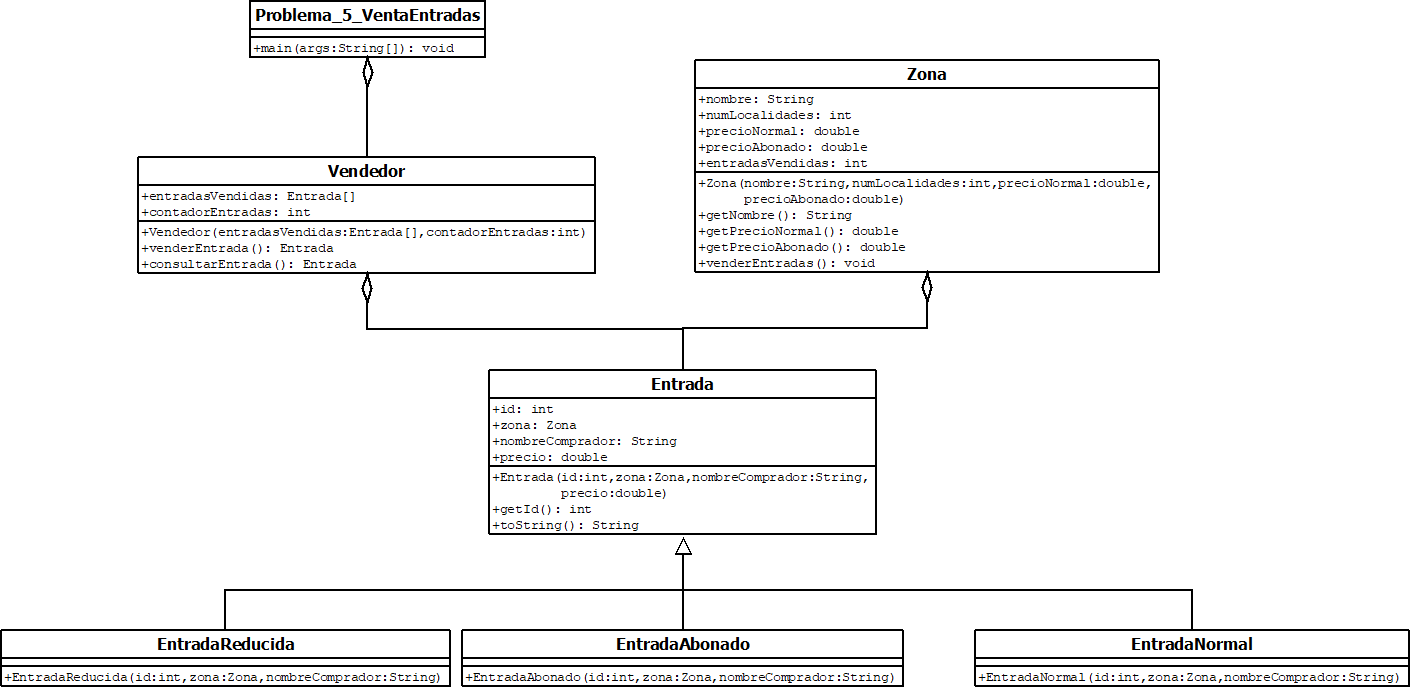
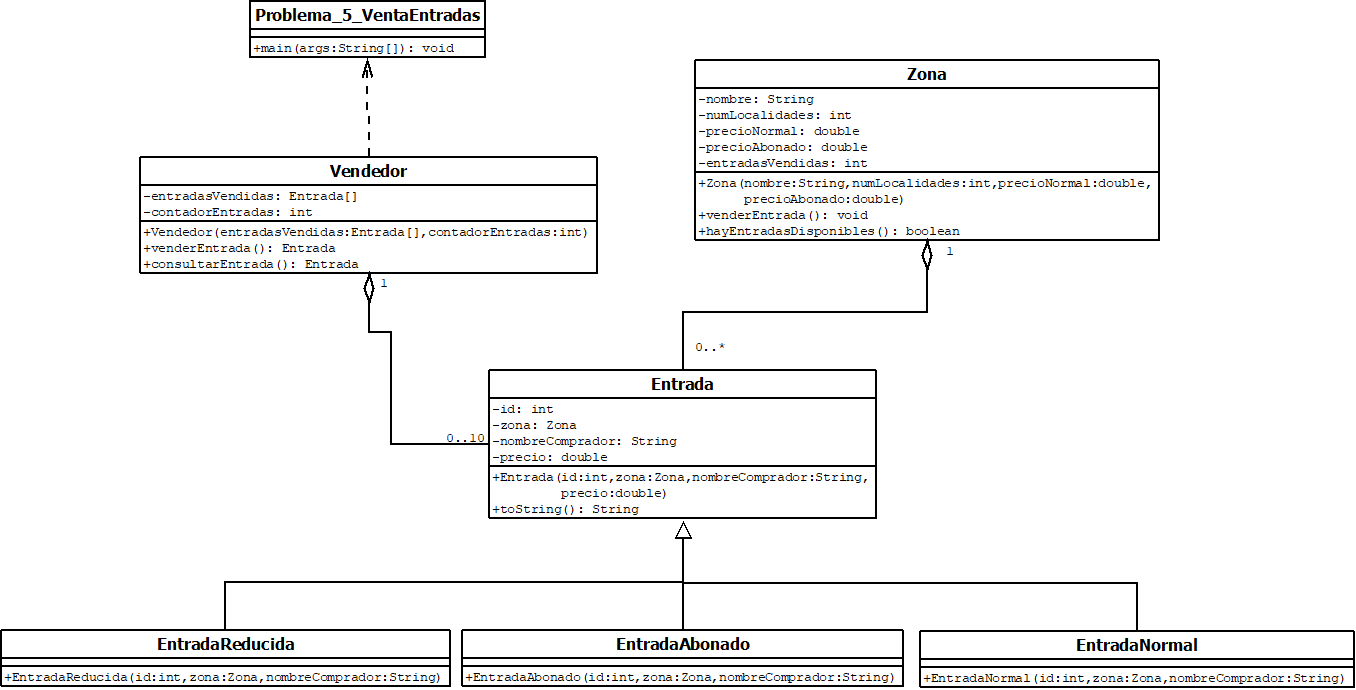
Avance

diff --git a/Solucion_Codigo/Proyecto_Taller7/src/Problema_5_VentaEntradas.java b/Solucion_Codigo/Proyecto_Taller7/src/Problema_5_VentaEntradas.java
@@ -41,7 +41,7 @@ El vendedor elige la opción “consulta entrada” e introduce el identificador
 La aplicación muestra los datos de la entrada: nombre del espectador, precio y nombre de la zona. Si no existe ninguna entrada con ese identificador, lo notifica y finaliza el caso de uso
  * @author Luis Bermeo
  */
-public class Problema_5_VentaEntradas{
+public class Problema_5_VentaEntradas {
     public static void main(String[] args) {
         Zona zonaPrincipal = new Zona("Principal", 200, 25.0, 17.5);
         Zona zonaPalcoB = new Zona("PalcoB", 40, 70.0, 40.0);
@@ -64,11 +64,11 @@ public class Problema_5_VentaEntradas{
 }
 
 class Zona {
-    public String nombre;
-    public int numLocalidades;
-    public double precioNormal;
-    public double precioAbonado;
-    public int entradasVendidas;
+    private String nombre;
+    private int numLocalidades;
+    private double precioNormal;
+    private double precioAbonado;
+    private int entradasVendidas;
 
     public Zona(String nombre, int numLocalidades, double precioNormal, double precioAbonado) {
         this.nombre = nombre;
@@ -100,10 +100,10 @@ class Zona {
 }
 
 class Entrada {
-    public int id;
-    public Zona zona;
-    public String nombreComprador;
-    public double precio;
+    private int id;
+    private Zona zona;
+    private String nombreComprador;
+    private double precio;
 
     public Entrada(int id, Zona zona, String nombreComprador, double precio) {
         this.id = id;
@@ -114,6 +114,18 @@ class Entrada {
 
     public int getId() {
         return id;
+    }
+
+    public Zona getZona() {
+        return zona;
+    }
+
+    public String getNombreComprador() {
+        return nombreComprador;
+    }
+
+    public double getPrecio() {
+        return precio;
     }
 
     public String toString() {
@@ -143,12 +155,8 @@ class EntradaAbonado extends Entrada {
 }
 
 class Vendedor {
-    public Entrada[] entradasVendidas = new Entrada[10];
-    public int contadorEntradas = 0;
-
-    public Vendedor() {
-    }
-    
+    private Entrada[] entradasVendidas = new Entrada[10];
+    private int contadorEntradas = 0;
 
     public Entrada venderEntrada(String zonaNombre, String nombreComprador, String tipoEntrada, Zona zona) {
         if (!zona.getNombre().equalsIgnoreCase(zonaNombre)) {
@@ -176,11 +184,11 @@ class Vendedor {
                 entrada = new EntradaAbonado(contadorEntradas, zona, nombreComprador);
                 break;
             default:
-                System.out.println("Tipo de entrada inválido.");
+                System.out.println("Tipo de entrada invalido.");
                 return null;
         }
         entradasVendidas[contadorEntradas - 1] = entrada;
-        System.out.println("Venta exitosa. ID entrada: " + contadorEntradas + ", Precio: $" + entrada.precio);
+        System.out.println("Venta exitosa. ID entrada: " + contadorEntradas + ", Precio: $" + entrada.getPrecio());
         return entrada;
     }
 
@@ -192,5 +200,6 @@ class Vendedor {
         return entradasVendidas[id - 1];
     }
 }
+
 
 
